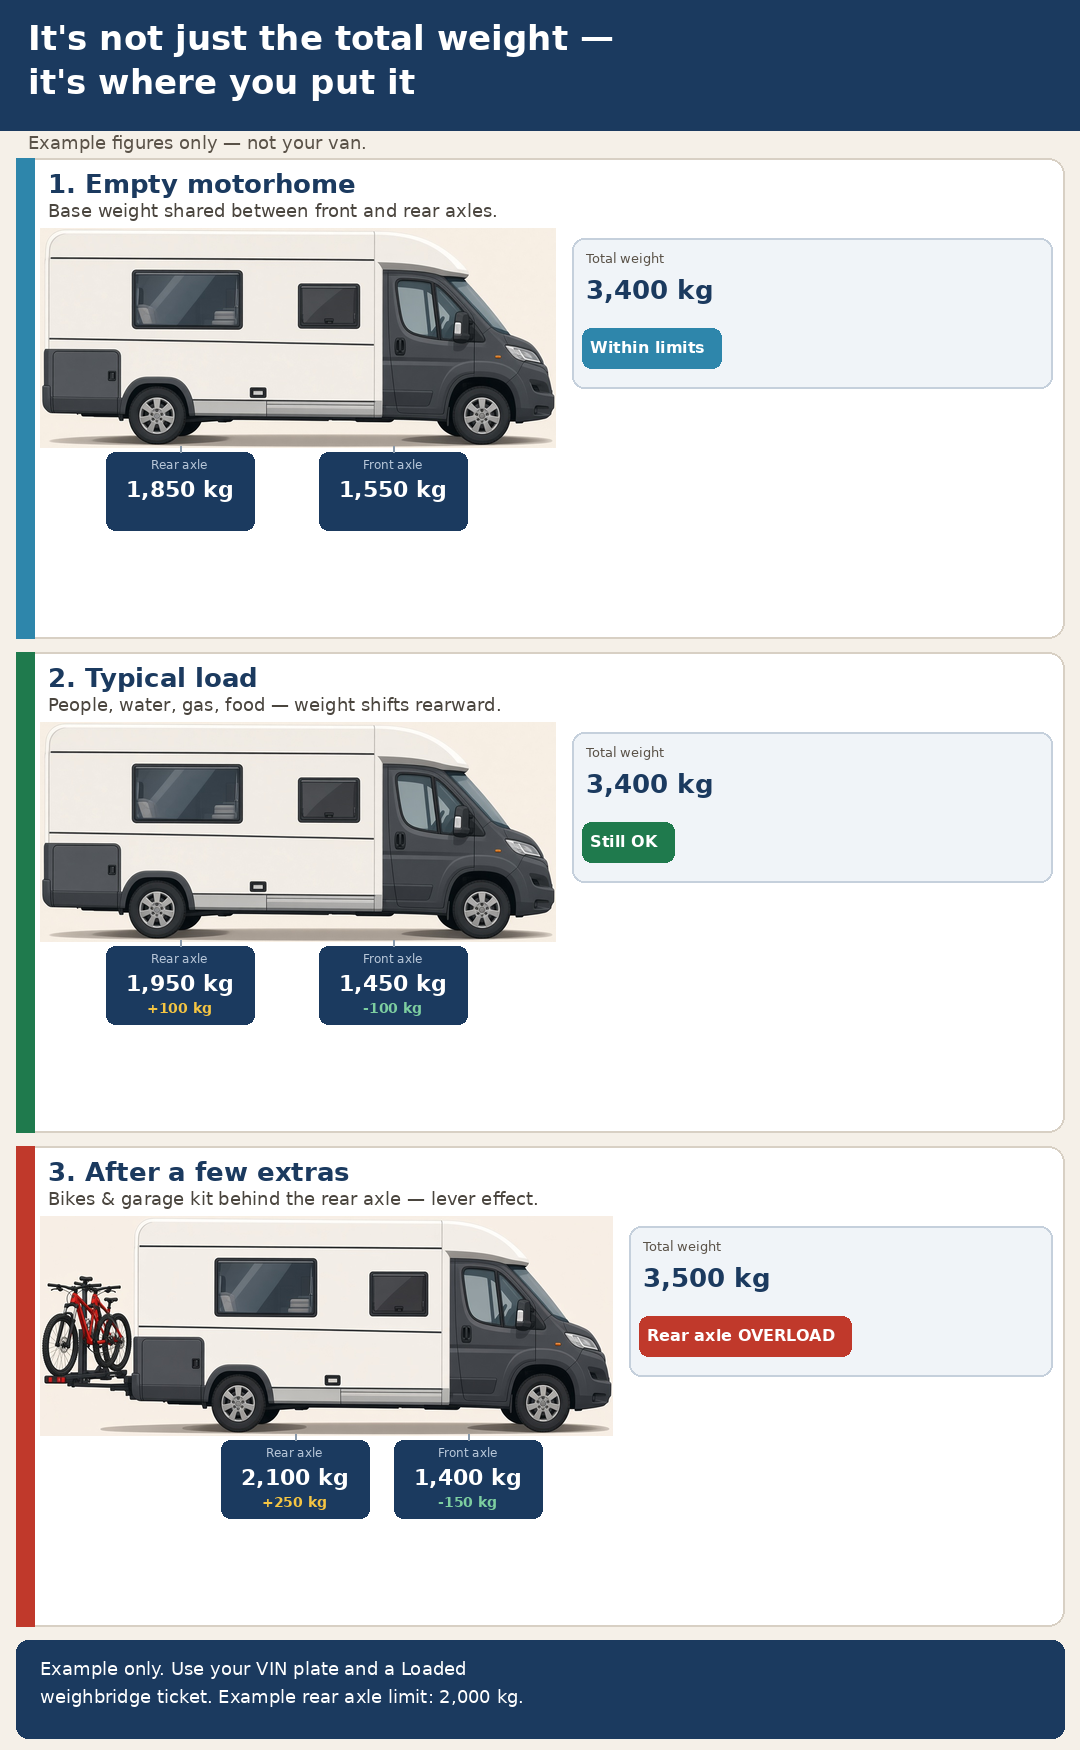
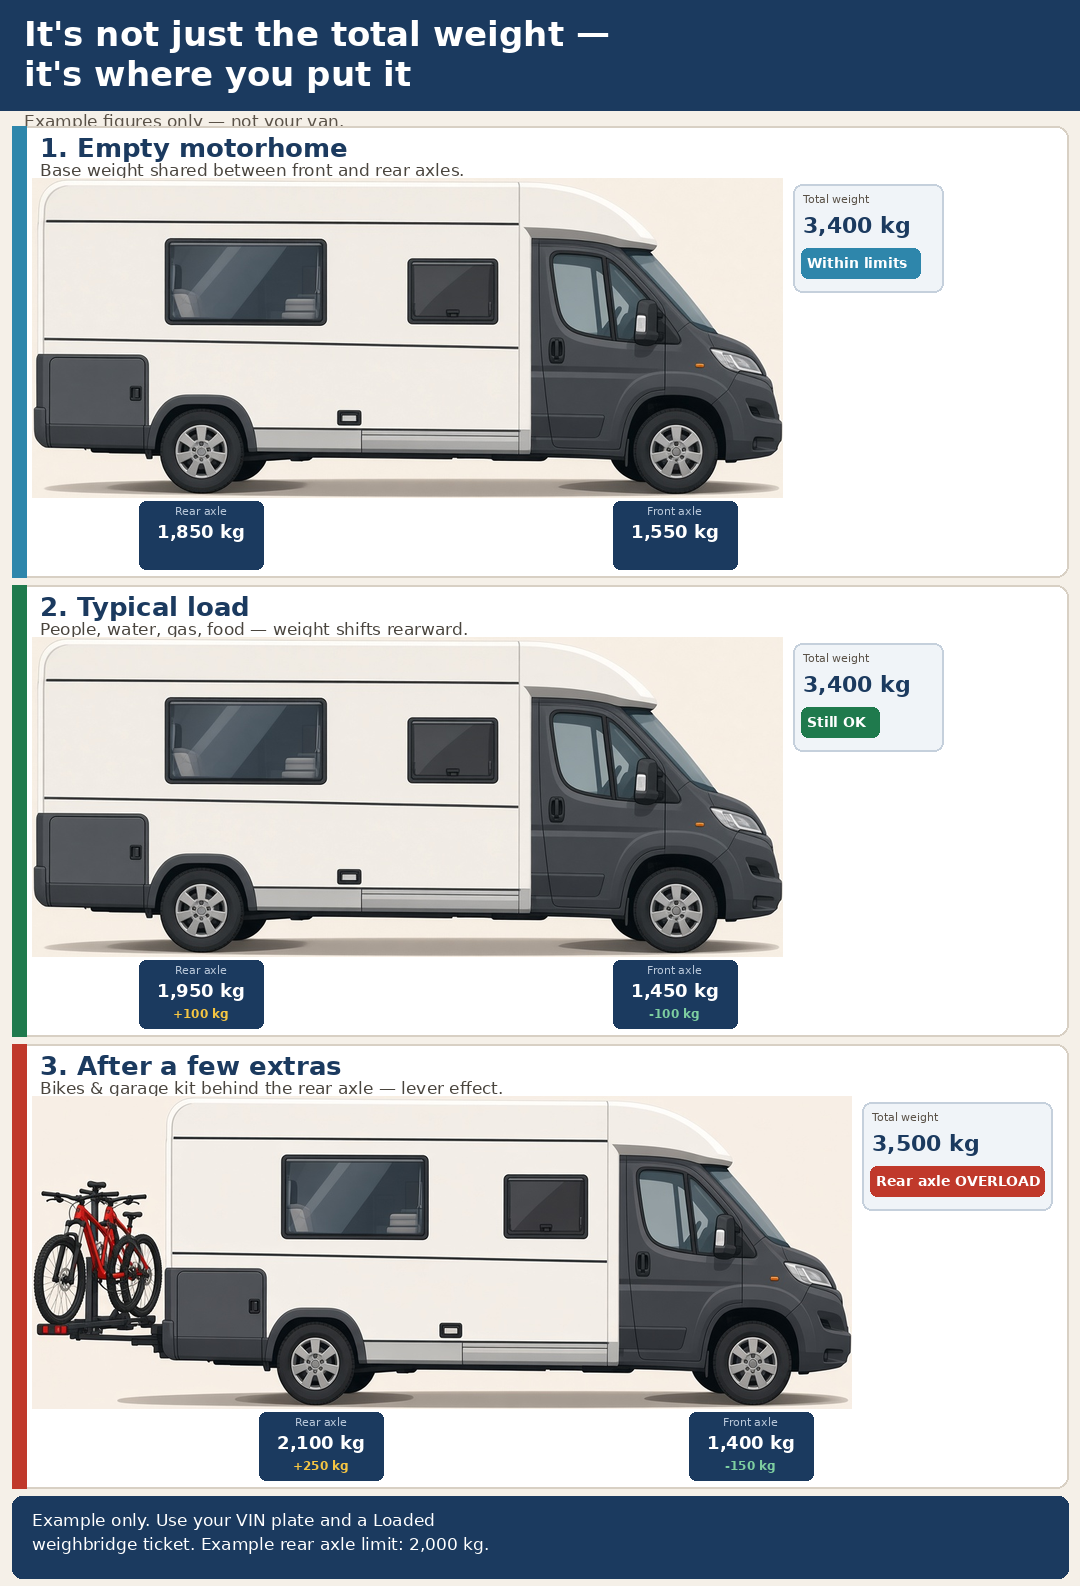
Hub-centred diagram + one example-numbers heading (#25)
Replace the diagram with Wayne’s larger van, hub-centred axle chips, and compact total panel. Keep the example-numbers heading and no duplicate caption. Bump the image cache-bust to 20260915ah.

diff --git a/guides/where-you-put-it.html b/guides/where-you-put-it.html
@@ -74,9 +74,9 @@
         <h2>Three example loads</h2>
         <figure class="guide-figure guide-figure--diagram">
           <img
-            src="./assets/where-you-put-it-diagram.png?v=20260915ag"
+            src="./assets/where-you-put-it-diagram.png?v=20260915ah"
             width="1080"
-            height="1750"
+            height="1586"
             alt="Example-only diagram of a realistic coachbuilt motorhome with large kilogramme figures. 1 Empty motorhome: front axle 1,550 kg, rear axle 1,850 kg, total 3,400 kg, within limits. 2 Typical load: front 1,450 kg (−100 kg), rear 1,950 kg (+100 kg), total 3,400 kg, still OK. 3 After extras with bikes on a rear rack: front 1,400 kg (−150 kg), rear 2,100 kg (+250 kg), total 3,500 kg, rear axle overloaded. Not your van.">
           <figcaption>Example figures only. They are not your van. Read your VIN plate and a Loaded weighbridge ticket for real numbers.</figcaption>
         </figure>

diff --git a/tests/server.test.js b/tests/server.test.js
@@ -67,7 +67,7 @@ test("GET /guides/ and Wave 2 pages return Payload, Power and Water", async func
     assert.match(indexHtml, /Rear axle overload: under MAM but over on one axle/);
     assert.match(placementHtml, /Example figures only/);
     assert.match(placementHtml, /Three example loads/);
-    assert.match(placementHtml, /where-you-put-it-diagram\.png\?v=20260915ag/);
+    assert.match(placementHtml, /where-you-put-it-diagram\.png\?v=20260915ah/);
     assert.match(placementHtml, /guide-figure--diagram/);
     assert.match(placementHtml, /front axle 1,550 kg/);
     assert.match(placementHtml, /1,550/);
